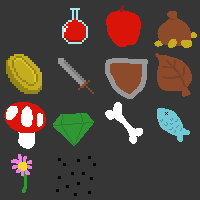
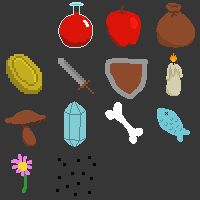
Some assets and such

diff --git a/content/vanilla/src/main/net/lugocorp/kingdom/mod/KingdomMod.java b/content/vanilla/src/main/net/lugocorp/kingdom/mod/KingdomMod.java
@@ -66,28 +66,28 @@ public class KingdomMod implements GameMod {
     /** {@inheritdoc} */
     @Override
     public void registerSprites(SpriteLoader sprites) {
-        sprites.register("placeholder", "icons", InventoryNode.SIDE, InventoryNode.SIDE, 0, 0);
-        sprites.register("potion", "icons", InventoryNode.SIDE, InventoryNode.SIDE, 1, 0);
-        sprites.register("apple", "icons", InventoryNode.SIDE, InventoryNode.SIDE, 2, 0);
-        sprites.register("pouch", "icons", InventoryNode.SIDE, InventoryNode.SIDE, 3, 0);
-        sprites.register("coin", "icons", InventoryNode.SIDE, InventoryNode.SIDE, 0, 1);
-        sprites.register("sword", "icons", InventoryNode.SIDE, InventoryNode.SIDE, 1, 1);
-        sprites.register("shield", "icons", InventoryNode.SIDE, InventoryNode.SIDE, 2, 1);
-        sprites.register("leaf", "icons", InventoryNode.SIDE, InventoryNode.SIDE, 3, 1);
-        sprites.register("mushroom", "icons", InventoryNode.SIDE, InventoryNode.SIDE, 0, 2);
-        sprites.register("emerald", "icons", InventoryNode.SIDE, InventoryNode.SIDE, 1, 2);
-        sprites.register("bone", "icons", InventoryNode.SIDE, InventoryNode.SIDE, 2, 2);
-        sprites.register("fish", "icons", InventoryNode.SIDE, InventoryNode.SIDE, 3, 2);
-        sprites.register("flower", "icons", InventoryNode.SIDE, InventoryNode.SIDE, 0, 3);
-        sprites.register("seeds", "icons", InventoryNode.SIDE, InventoryNode.SIDE, 1, 3);
-        sprites.register("golden feather", "artifacts", ArtifactNode.WIDTH, ArtifactNode.HEIGHT, 0, 0);
-        sprites.register("raider", "fates", FateNode.WIDTH, FateNode.HEIGHT, 0, 0);
-        sprites.register("merchant", "fates", FateNode.WIDTH, FateNode.HEIGHT, 1, 0);
-        sprites.register("veteran", "fates", FateNode.WIDTH, FateNode.HEIGHT, 2, 0);
-        sprites.register("devout", "fates", FateNode.WIDTH, FateNode.HEIGHT, 3, 0);
-        sprites.register("sentinel", "fates", FateNode.WIDTH, FateNode.HEIGHT, 0, 1);
-        sprites.register("usurper", "fates", FateNode.WIDTH, FateNode.HEIGHT, 1, 1);
-        sprites.register("forager", "fates", FateNode.WIDTH, FateNode.HEIGHT, 2, 1);
+        sprites.register("placeholder", Defs.assets_icons, InventoryNode.SIDE, InventoryNode.SIDE, 0, 0);
+        sprites.register("potion", Defs.assets_icons, InventoryNode.SIDE, InventoryNode.SIDE, 1, 0);
+        sprites.register("apple", Defs.assets_icons, InventoryNode.SIDE, InventoryNode.SIDE, 2, 0);
+        sprites.register("pouch", Defs.assets_icons, InventoryNode.SIDE, InventoryNode.SIDE, 3, 0);
+        sprites.register("coin", Defs.assets_icons, InventoryNode.SIDE, InventoryNode.SIDE, 0, 1);
+        sprites.register("sword", Defs.assets_icons, InventoryNode.SIDE, InventoryNode.SIDE, 1, 1);
+        sprites.register("shield", Defs.assets_icons, InventoryNode.SIDE, InventoryNode.SIDE, 2, 1);
+        sprites.register("candle", Defs.assets_icons, InventoryNode.SIDE, InventoryNode.SIDE, 3, 1);
+        sprites.register("mushroom", Defs.assets_icons, InventoryNode.SIDE, InventoryNode.SIDE, 0, 2);
+        sprites.register("crystal", Defs.assets_icons, InventoryNode.SIDE, InventoryNode.SIDE, 1, 2);
+        sprites.register("bone", Defs.assets_icons, InventoryNode.SIDE, InventoryNode.SIDE, 2, 2);
+        sprites.register("fish", Defs.assets_icons, InventoryNode.SIDE, InventoryNode.SIDE, 3, 2);
+        sprites.register("flower", Defs.assets_icons, InventoryNode.SIDE, InventoryNode.SIDE, 0, 3);
+        sprites.register("seeds", Defs.assets_icons, InventoryNode.SIDE, InventoryNode.SIDE, 1, 3);
+        sprites.register("golden feather", Defs.assets_artifacts, ArtifactNode.WIDTH, ArtifactNode.HEIGHT, 0, 0);
+        sprites.register("raider", Defs.assets_fates, FateNode.WIDTH, FateNode.HEIGHT, 0, 0);
+        sprites.register("merchant", Defs.assets_fates, FateNode.WIDTH, FateNode.HEIGHT, 1, 0);
+        sprites.register("veteran", Defs.assets_fates, FateNode.WIDTH, FateNode.HEIGHT, 2, 0);
+        sprites.register("devout", Defs.assets_fates, FateNode.WIDTH, FateNode.HEIGHT, 3, 0);
+        sprites.register("sentinel", Defs.assets_fates, FateNode.WIDTH, FateNode.HEIGHT, 0, 1);
+        sprites.register("usurper", Defs.assets_fates, FateNode.WIDTH, FateNode.HEIGHT, 1, 1);
+        sprites.register("forager", Defs.assets_fates, FateNode.WIDTH, FateNode.HEIGHT, 2, 1);
     }
 
     /** {@inheritdoc} */
@@ -140,7 +140,7 @@ public class KingdomMod implements GameMod {
         events.tile.addEventHandler(Defs.tile_grass, "GenerateTileEvent",
                 (GameView view, Tile receiver, Event event) -> {
                     Events.GenerateTileEvent e = (Events.GenerateTileEvent) event;
-                    e.blob.setModelInstance(view.av, "grass");
+                    e.blob.setModelInstance(view.av, Defs.assets_grass);
                     e.blob.setMinimapColor(0x2c9965);
                     return SideEffect.none;
                 });
@@ -149,9 +149,9 @@ public class KingdomMod implements GameMod {
         events.tile.addEventHandler(Defs.tile_rock, "GenerateTileEvent",
                 (GameView view, Tile receiver, Event event) -> {
                     Events.GenerateTileEvent e = (Events.GenerateTileEvent) event;
-                    e.blob.setModelInstance(view.av, "grass");
+                    e.blob.setModelInstance(view.av, Defs.assets_grass);
                     e.blob.setMinimapColor(0x666666);
-                    e.blob.setMaterial("rock");
+                    e.blob.setMaterial(Defs.assets_rock);
                     return SideEffect.none;
                 });
 
@@ -159,9 +159,9 @@ public class KingdomMod implements GameMod {
         events.tile.addEventHandler(Defs.tile_sand, "GenerateTileEvent",
                 (GameView view, Tile receiver, Event event) -> {
                     Events.GenerateTileEvent e = (Events.GenerateTileEvent) event;
-                    e.blob.setModelInstance(view.av, "grass");
+                    e.blob.setModelInstance(view.av, Defs.assets_grass);
                     e.blob.setMinimapColor(0xc7c567);
-                    e.blob.setMaterial("sand");
+                    e.blob.setMaterial(Defs.assets_sand);
                     return SideEffect.none;
                 });
 
@@ -169,7 +169,7 @@ public class KingdomMod implements GameMod {
         events.tile.addEventHandler(Defs.tile_snow, "GenerateTileEvent",
                 (GameView view, Tile receiver, Event event) -> {
                     Events.GenerateTileEvent e = (Events.GenerateTileEvent) event;
-                    e.blob.setModelInstance(view.av, "grass");
+                    e.blob.setModelInstance(view.av, Defs.assets_grass);
                     e.blob.setMinimapColor(0xffffff);
                     e.blob.setMaterial("snow");
                     return SideEffect.none;
@@ -179,7 +179,7 @@ public class KingdomMod implements GameMod {
         events.tile.addEventHandler(Defs.tile_water, "GenerateTileEvent",
                 (GameView view, Tile receiver, Event event) -> {
                     Events.GenerateTileEvent e = (Events.GenerateTileEvent) event;
-                    e.blob.setModelInstance(view.av, "water");
+                    e.blob.setModelInstance(view.av, Defs.assets_water);
                     e.blob.setMinimapColor(0x20c7f7);
                     e.blob.setObstacle(true);
                     e.blob.setWave(true);
@@ -190,9 +190,9 @@ public class KingdomMod implements GameMod {
         events.tile.addEventHandler(Defs.tile_lava, "GenerateTileEvent",
                 (GameView view, Tile receiver, Event event) -> {
                     Events.GenerateTileEvent e = (Events.GenerateTileEvent) event;
-                    e.blob.setModelInstance(view.av, "water");
+                    e.blob.setModelInstance(view.av, Defs.assets_water);
                     e.blob.setMinimapColor(0xcf3b23);
-                    e.blob.setMaterial("lava");
+                    e.blob.setMaterial(Defs.assets_lava);
                     e.blob.setObstacle(true);
                     e.blob.setWave(true);
                     return SideEffect.none;
@@ -2048,7 +2048,7 @@ public class KingdomMod implements GameMod {
                 (GameView view, Item receiver, Event event) -> {
                     Events.GenerateItemEvent e = (Events.GenerateItemEvent) event;
                     e.blob.desc = "Consume to increase your gold";
-                    e.blob.icon = Optional.of("emerald");
+                    e.blob.icon = Optional.of("crystal");
                     e.blob.gold = 10;
                     return SideEffect.none;
                 });

diff --git a/content/common/src/main/net/lugocorp/kingdom/mod/common/Defs.java b/content/common/src/main/net/lugocorp/kingdom/mod/common/Defs.java
@@ -6,7 +6,19 @@ import net.lugocorp.kingdom.game.properties.Species;
  */
 public class Defs {
     /**
-     * SECTION Races
+     * SECTION Assets
+     */
+    public static final String assets_icons = "icons";
+    public static final String assets_artifacts = "artifacts";
+    public static final String assets_fates = "fates";
+    public static final String assets_grass = "grass";
+    public static final String assets_water = "water";
+    public static final String assets_rock = "rock";
+    public static final String assets_sand = "sand";
+    public static final String assets_lava = "lava";
+
+    /**
+     * SECTION Species
      */
     public static final Species species_human = new Species("Human");
     public static final Species species_elf = new Species("Elf");
